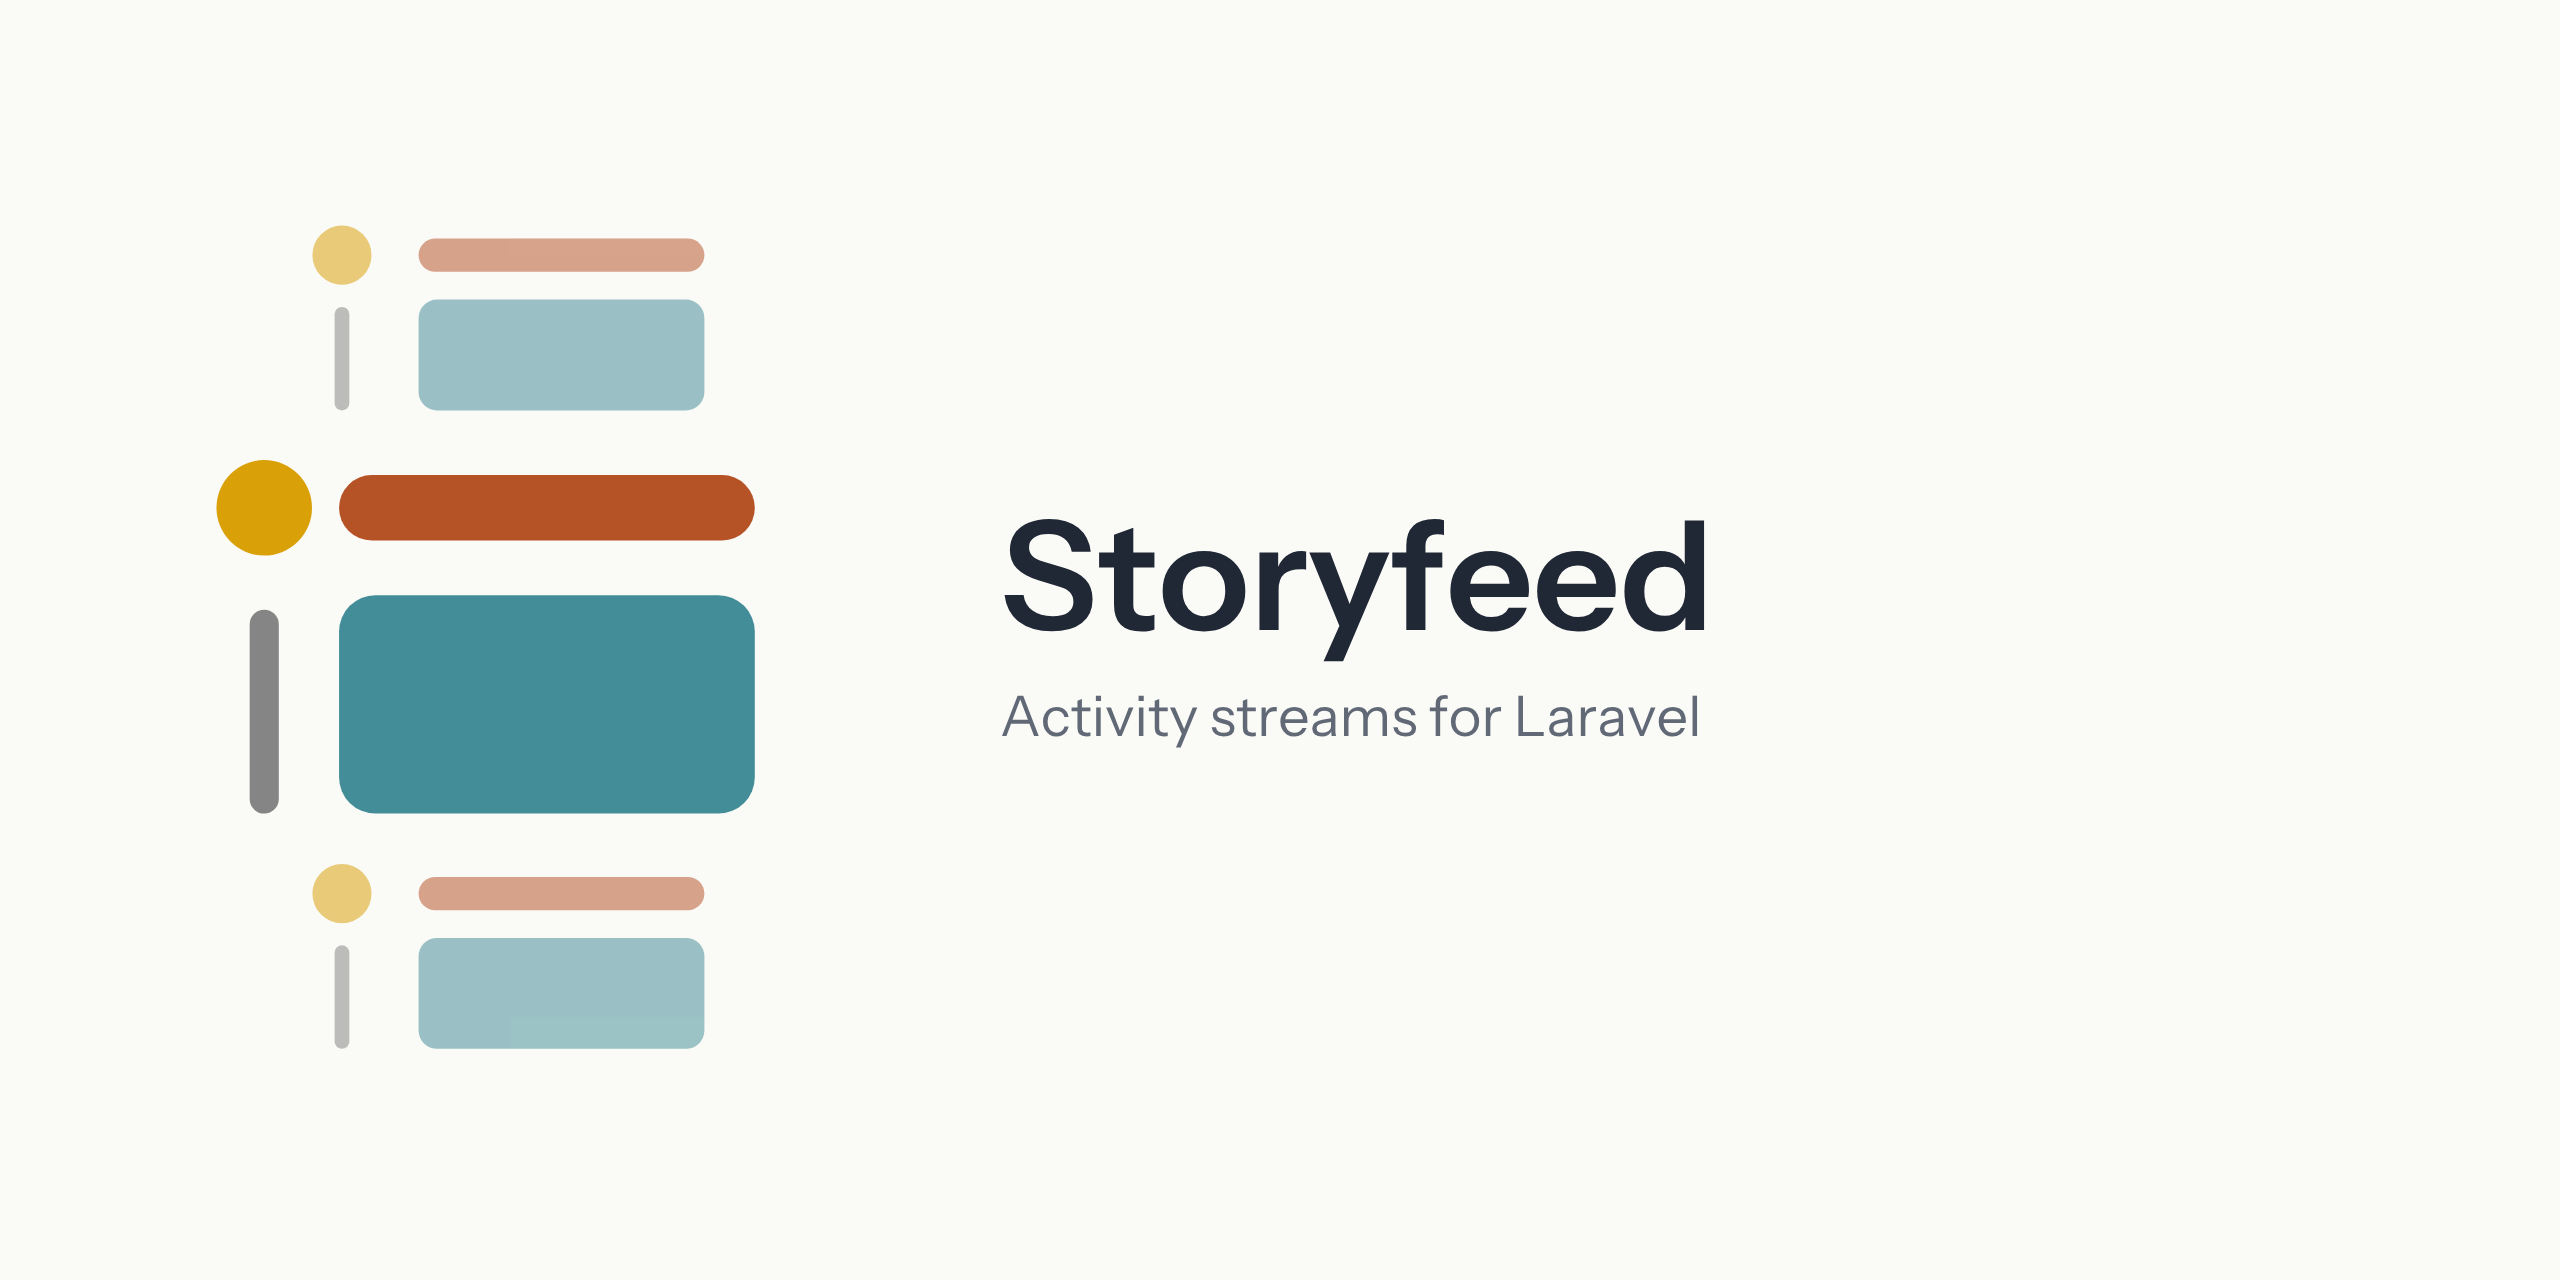
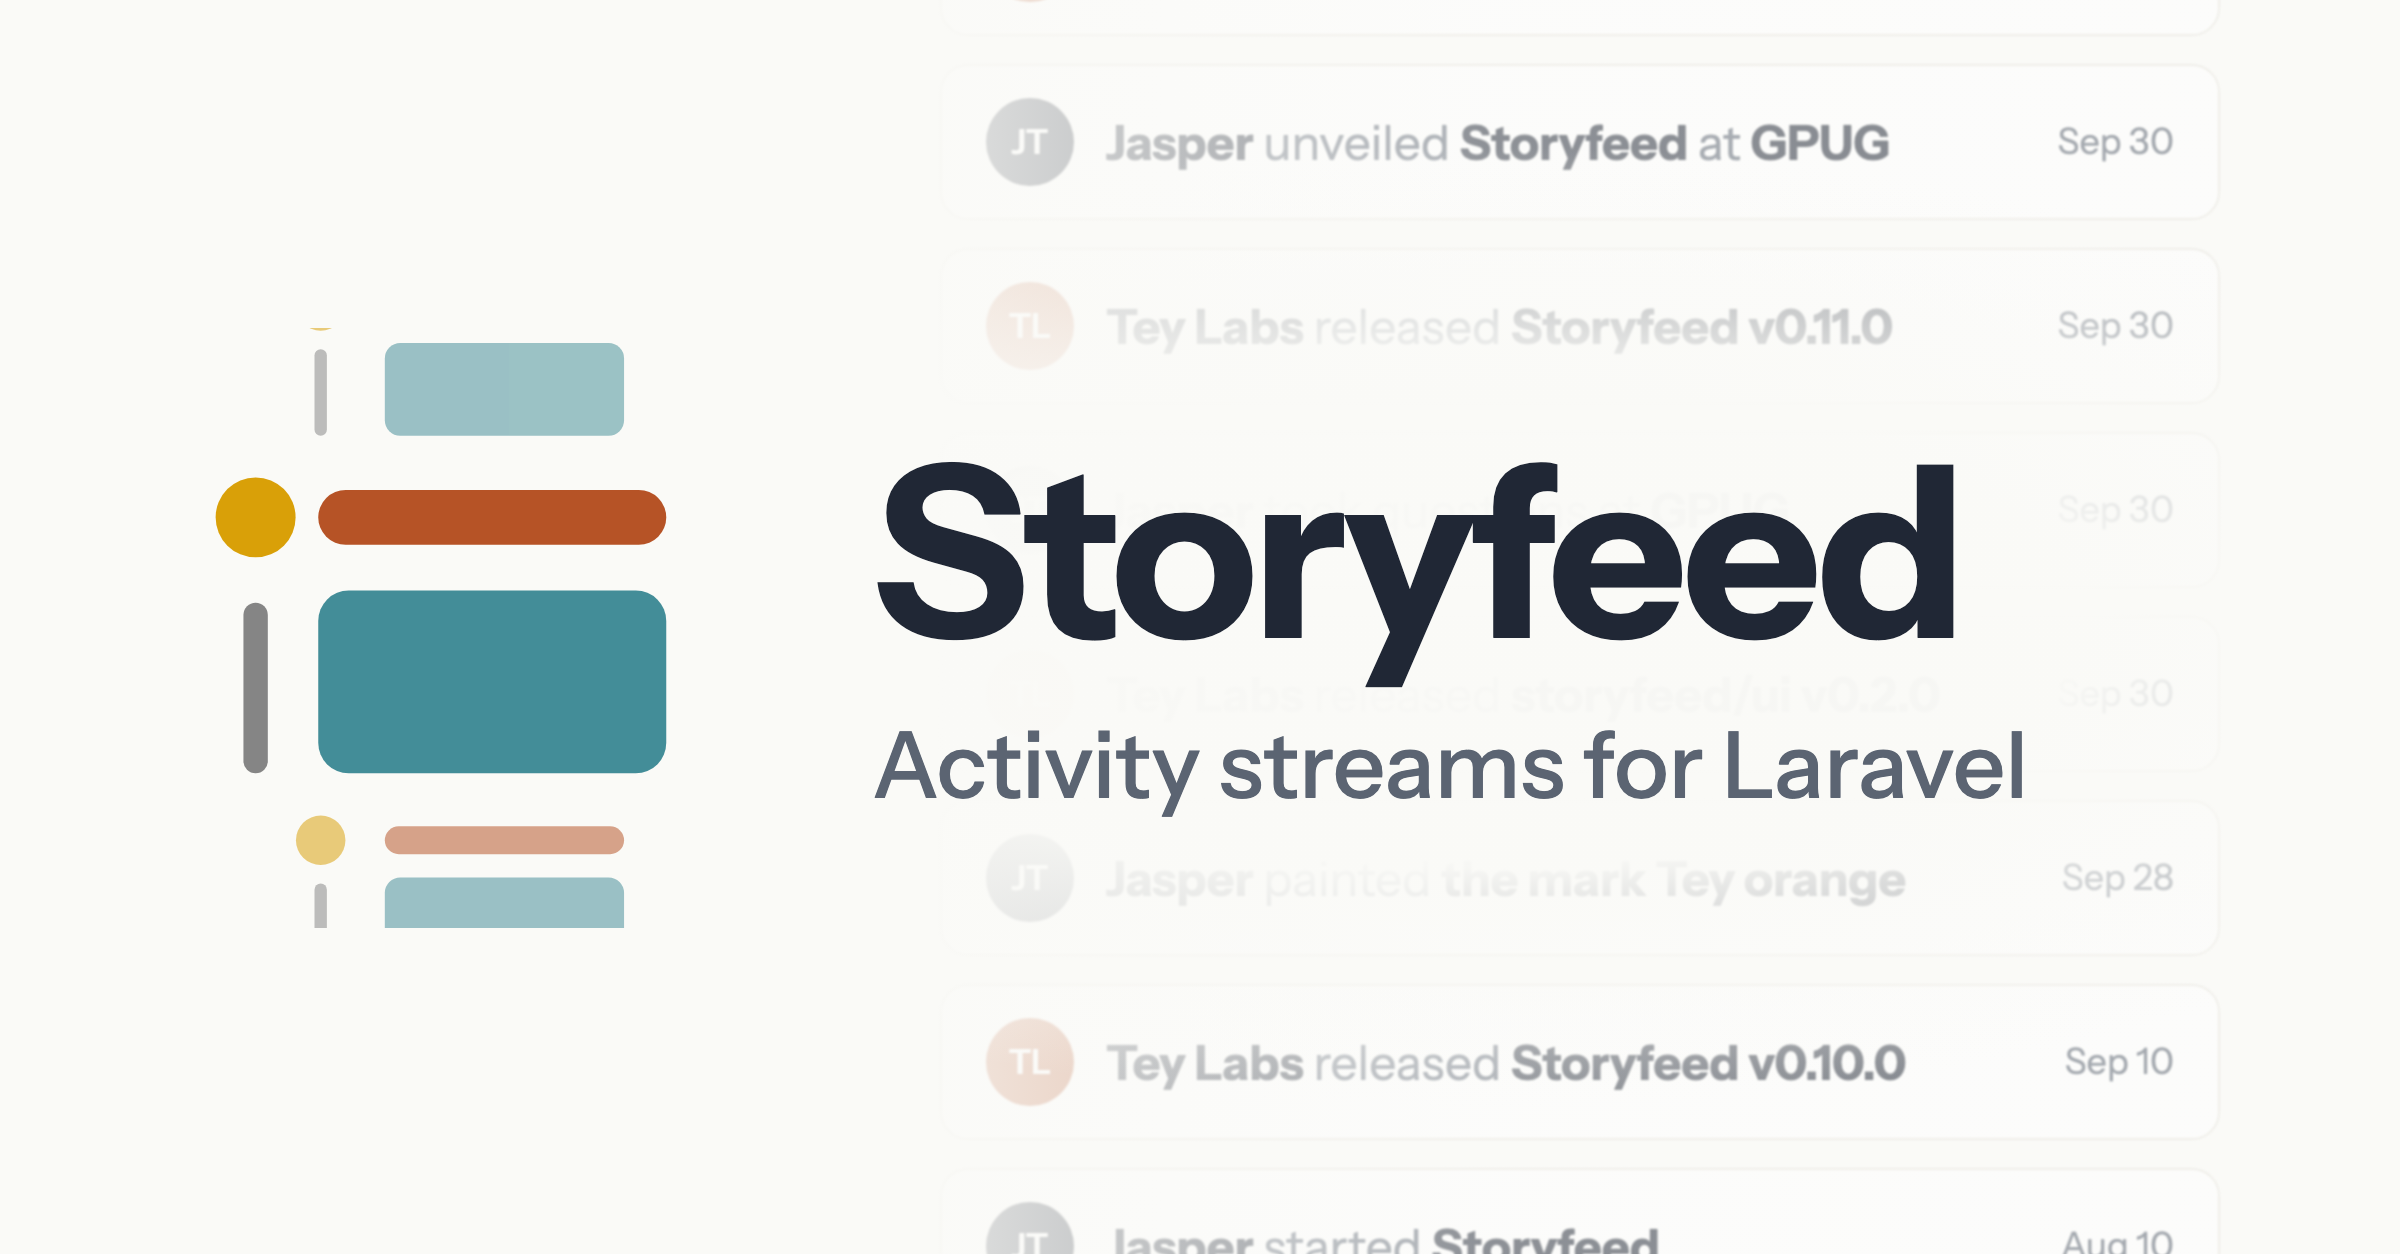
The share card shows a feed of Storyfeed's own milestones
Claude-Session: https://claude.ai/code/session_01Tjnq9gBQNZoV84sRjp7Rrp

diff --git a/brand/storyfeed-social.html b/brand/storyfeed-social.html
@@ -1,0 +1,6 @@
+<!doctype html><html><head><link href="https://fonts.googleapis.com/css2?family=Instrument+Sans:wght@400;500;600;700&family=JetBrains+Mono:wght@500&display=swap" rel="stylesheet"><style>
+*{box-sizing:border-box}body{margin:0;width:1200px;height:627px;background:#FAFAF7;font-family:'Instrument Sans',sans-serif;color:#202735;overflow:hidden}
+.ink{color:#202735}.mute{color:#5b6472}.org{color:#B65326}
+</style></head><body><div style="position:relative;width:1200px;height:627px;overflow:hidden"><div style="position:absolute;top:-60px;left:470px;transform:rotate(0deg);opacity:0.55;filter:blur(0.6px)"><div style="display:flex;flex-direction:column;gap:14px"><div style="display:flex;align-items:center;gap:16px;padding:16px 22px;background:#fff;border:1px solid #e7e5df;border-radius:14px;width:640px"><div style="width:44px;height:44px;border-radius:50%;background:#B65326;color:#fff;display:flex;align-items:center;justify-content:center;font-weight:600;font-size:17px">TL</div><div style="font-size:24px;flex:1;white-space:nowrap"><b>Tey Labs</b> <span style="color:#5b6472">launched</span> <b>the docs MCP server</b></div><div style="color:#5b6472;font-size:18px;white-space:nowrap">Oct 1</div></div><div style="display:flex;align-items:center;gap:16px;padding:16px 22px;background:#fff;border:1px solid #e7e5df;border-radius:14px;width:640px"><div style="width:44px;height:44px;border-radius:50%;background:#202735;color:#fff;display:flex;align-items:center;justify-content:center;font-weight:600;font-size:17px">JT</div><div style="font-size:24px;flex:1;white-space:nowrap"><b>Jasper</b> <span style="color:#5b6472">unveiled</span> <b>Storyfeed</b> <span style="color:#5b6472">at</span> <b>GPUG</b></div><div style="color:#5b6472;font-size:18px;white-space:nowrap">Sep 30</div></div><div style="display:flex;align-items:center;gap:16px;padding:16px 22px;background:#fff;border:1px solid #e7e5df;border-radius:14px;width:640px"><div style="width:44px;height:44px;border-radius:50%;background:#B65326;color:#fff;display:flex;align-items:center;justify-content:center;font-weight:600;font-size:17px">TL</div><div style="font-size:24px;flex:1;white-space:nowrap"><b>Tey Labs</b> <span style="color:#5b6472">released</span> <b>Storyfeed v0.11.0</b></div><div style="color:#5b6472;font-size:18px;white-space:nowrap">Sep 30</div></div><div style="display:flex;align-items:center;gap:16px;padding:16px 22px;background:#fff;border:1px solid #e7e5df;border-radius:14px;width:640px"><div style="width:44px;height:44px;border-radius:50%;background:#202735;color:#fff;display:flex;align-items:center;justify-content:center;font-weight:600;font-size:17px">JT</div><div style="font-size:24px;flex:1;white-space:nowrap"><b>Jasper</b> <span style="color:#5b6472">took questions</span> <span style="color:#5b6472">at</span> <b>GPUG</b></div><div style="color:#5b6472;font-size:18px;white-space:nowrap">Sep 30</div></div><div style="display:flex;align-items:center;gap:16px;padding:16px 22px;background:#fff;border:1px solid #e7e5df;border-radius:14px;width:640px"><div style="width:44px;height:44px;border-radius:50%;background:#B65326;color:#fff;display:flex;align-items:center;justify-content:center;font-weight:600;font-size:17px">TL</div><div style="font-size:24px;flex:1;white-space:nowrap"><b>Tey Labs</b> <span style="color:#5b6472">released</span> <b>storyfeed/ui v0.2.0</b></div><div style="color:#5b6472;font-size:18px;white-space:nowrap">Sep 30</div></div><div style="display:flex;align-items:center;gap:16px;padding:16px 22px;background:#fff;border:1px solid #e7e5df;border-radius:14px;width:640px"><div style="width:44px;height:44px;border-radius:50%;background:#202735;color:#fff;display:flex;align-items:center;justify-content:center;font-weight:600;font-size:17px">JT</div><div style="font-size:24px;flex:1;white-space:nowrap"><b>Jasper</b> <span style="color:#5b6472">painted</span> <b>the mark Tey orange</b></div><div style="color:#5b6472;font-size:18px;white-space:nowrap">Sep 28</div></div><div style="display:flex;align-items:center;gap:16px;padding:16px 22px;background:#fff;border:1px solid #e7e5df;border-radius:14px;width:640px"><div style="width:44px;height:44px;border-radius:50%;background:#B65326;color:#fff;display:flex;align-items:center;justify-content:center;font-weight:600;font-size:17px">TL</div><div style="font-size:24px;flex:1;white-space:nowrap"><b>Tey Labs</b> <span style="color:#5b6472">released</span> <b>Storyfeed v0.10.0</b></div><div style="color:#5b6472;font-size:18px;white-space:nowrap">Sep 10</div></div><div style="display:flex;align-items:center;gap:16px;padding:16px 22px;background:#fff;border:1px solid #e7e5df;border-radius:14px;width:640px"><div style="width:44px;height:44px;border-radius:50%;background:#202735;color:#fff;display:flex;align-items:center;justify-content:center;font-weight:600;font-size:17px">JT</div><div style="font-size:24px;flex:1;white-space:nowrap"><b>Jasper</b> <span style="color:#5b6472">started</span> <b>Storyfeed</b></div><div style="color:#5b6472;font-size:18px;white-space:nowrap">Aug 10</div></div></div></div><div style="position:absolute;inset:0;background:radial-gradient(ellipse 600px 240px at 62% 50%,rgba(250,250,247,0.97) 50%,rgba(250,250,247,0) 100%),linear-gradient(90deg,#FAFAF7 32%,rgba(250,250,247,0.1) 62%,rgba(250,250,247,0))"></div><div style="position:relative;height:100%"><div style="display:flex;align-items:center;height:100%;padding:0 80px;gap:56px"><svg width="300" height="300" xmlns="http://www.w3.org/2000/svg" viewBox="0 0 128 128"><g opacity="0.52"><circle cx="34.28" cy="-4.72" r="5.28" fill="#D9A008"/><rect x="47.96" y="3.200000000000001" width="51.04" height="19.8" rx="3.3000000000000003" fill="#438D98"/><rect x="32.96" y="4.5200000000000005" width="2.64" height="18.48" rx="1.32" fill="#858585"/><rect x="47.96" y="-7.6899999999999995" width="51.04" height="5.9399999999999995" rx="2.9699999999999998" fill="#B65326"/></g><g opacity="1"><circle cx="20.4" cy="40.4" r="8.528" fill="#D9A008"/><rect x="33.76" y="56.0" width="74.24000000000001" height="39.0" rx="6.5" fill="#438D98"/><rect x="17.799999999999997" y="58.599999999999994" width="5.2" height="36.400000000000006" rx="2.6" fill="#858585"/><rect x="33.76" y="34.55" width="74.24000000000001" height="11.7" rx="5.85" fill="#B65326"/></g><g opacity="0.52"><circle cx="34.28" cy="109.28" r="5.28" fill="#D9A008"/><rect x="47.96" y="117.2" width="51.04" height="19.8" rx="3.3000000000000003" fill="#438D98"/><rect x="32.96" y="118.52" width="2.64" height="18.48" rx="1.32" fill="#858585"/><rect x="47.96" y="106.31" width="51.04" height="5.9399999999999995" rx="2.9699999999999998" fill="#B65326"/></g></svg>
+<div><div style="font-size:120px;font-weight:700;letter-spacing:-3px;line-height:1">Storyfeed</div>
+<div class="mute" style="font-size:46px;font-weight:500;margin-top:18px">Activity streams for Laravel</div></div></div></div></div></body></html>

diff --git a/docs/.vitepress/config.ts b/docs/.vitepress/config.ts
@@ -133,12 +133,12 @@ export default defineConfig({
   head: [
     ['meta', { property: 'og:type', content: 'website' }],
     ['meta', { property: 'og:site_name', content: 'Storyfeed' }],
-    ['meta', { property: 'og:image', content: 'https://docs.storyfeed.dev/og-image.png?v=1' }],
-    ['meta', { property: 'og:image:width', content: '2560' }],
-    ['meta', { property: 'og:image:height', content: '1280' }],
-    ['meta', { property: 'og:image:alt', content: 'The Storyfeed mark beside the words Storyfeed, Activity streams for Laravel' }],
+    ['meta', { property: 'og:image', content: 'https://docs.storyfeed.dev/og-image.png?v=2' }],
+    ['meta', { property: 'og:image:width', content: '2400' }],
+    ['meta', { property: 'og:image:height', content: '1254' }],
+    ['meta', { property: 'og:image:alt', content: 'The Storyfeed mark and the words Storyfeed, Activity streams for Laravel, over a faded feed of Storyfeed milestones' }],
     ['meta', { name: 'twitter:card', content: 'summary_large_image' }],
-    ['meta', { name: 'twitter:image', content: 'https://docs.storyfeed.dev/og-image.png?v=1' }],
+    ['meta', { name: 'twitter:image', content: 'https://docs.storyfeed.dev/og-image.png?v=2' }],
     ['link', { rel: 'icon', href: '/favicon.ico?v=2', sizes: 'any' }],
     ['link', { rel: 'icon', href: '/favicon.svg?v=2', type: 'image/svg+xml' }],
     ['link', { rel: 'apple-touch-icon', href: '/apple-touch-icon.png?v=2' }],

diff --git a/brand/README.md b/brand/README.md
@@ -28,7 +28,7 @@ its top bar. It replaced coral `#EE876B` on 2026-09-28.
 | `avatar-transparent.svg`, `avatar-transparent-{512,1000}.png` | transparent light-surface avatar, no dark tile; PNGs for GitHub |
 | `storyfeed-motion-{light,dark}.svg` | the advancing carousel, 4s cadence |
 | `storyfeed-readme.{svg,png}` | 1200×320 repository banner |
-| `storyfeed-social.{svg,png}` | 1280×640 social card |
+| `storyfeed-social.{html,png}` | 1200×627 share card (PNG at 2×), deployed as `og-image.png` on both sites: the mark and name over a faded feed of real Storyfeed milestones (GPUG unveiling, releases, the first commit). Re-render the HTML at 1200×627, device scale 2, and bump the `?v=` on both sites |
 
 `docs/public/` carries the deployed copies: `logo-light.svg`, `logo-dark.svg`,
 `favicon.svg`, `favicon.ico` (16/32/48) and `apple-touch-icon.png`. The favicon
